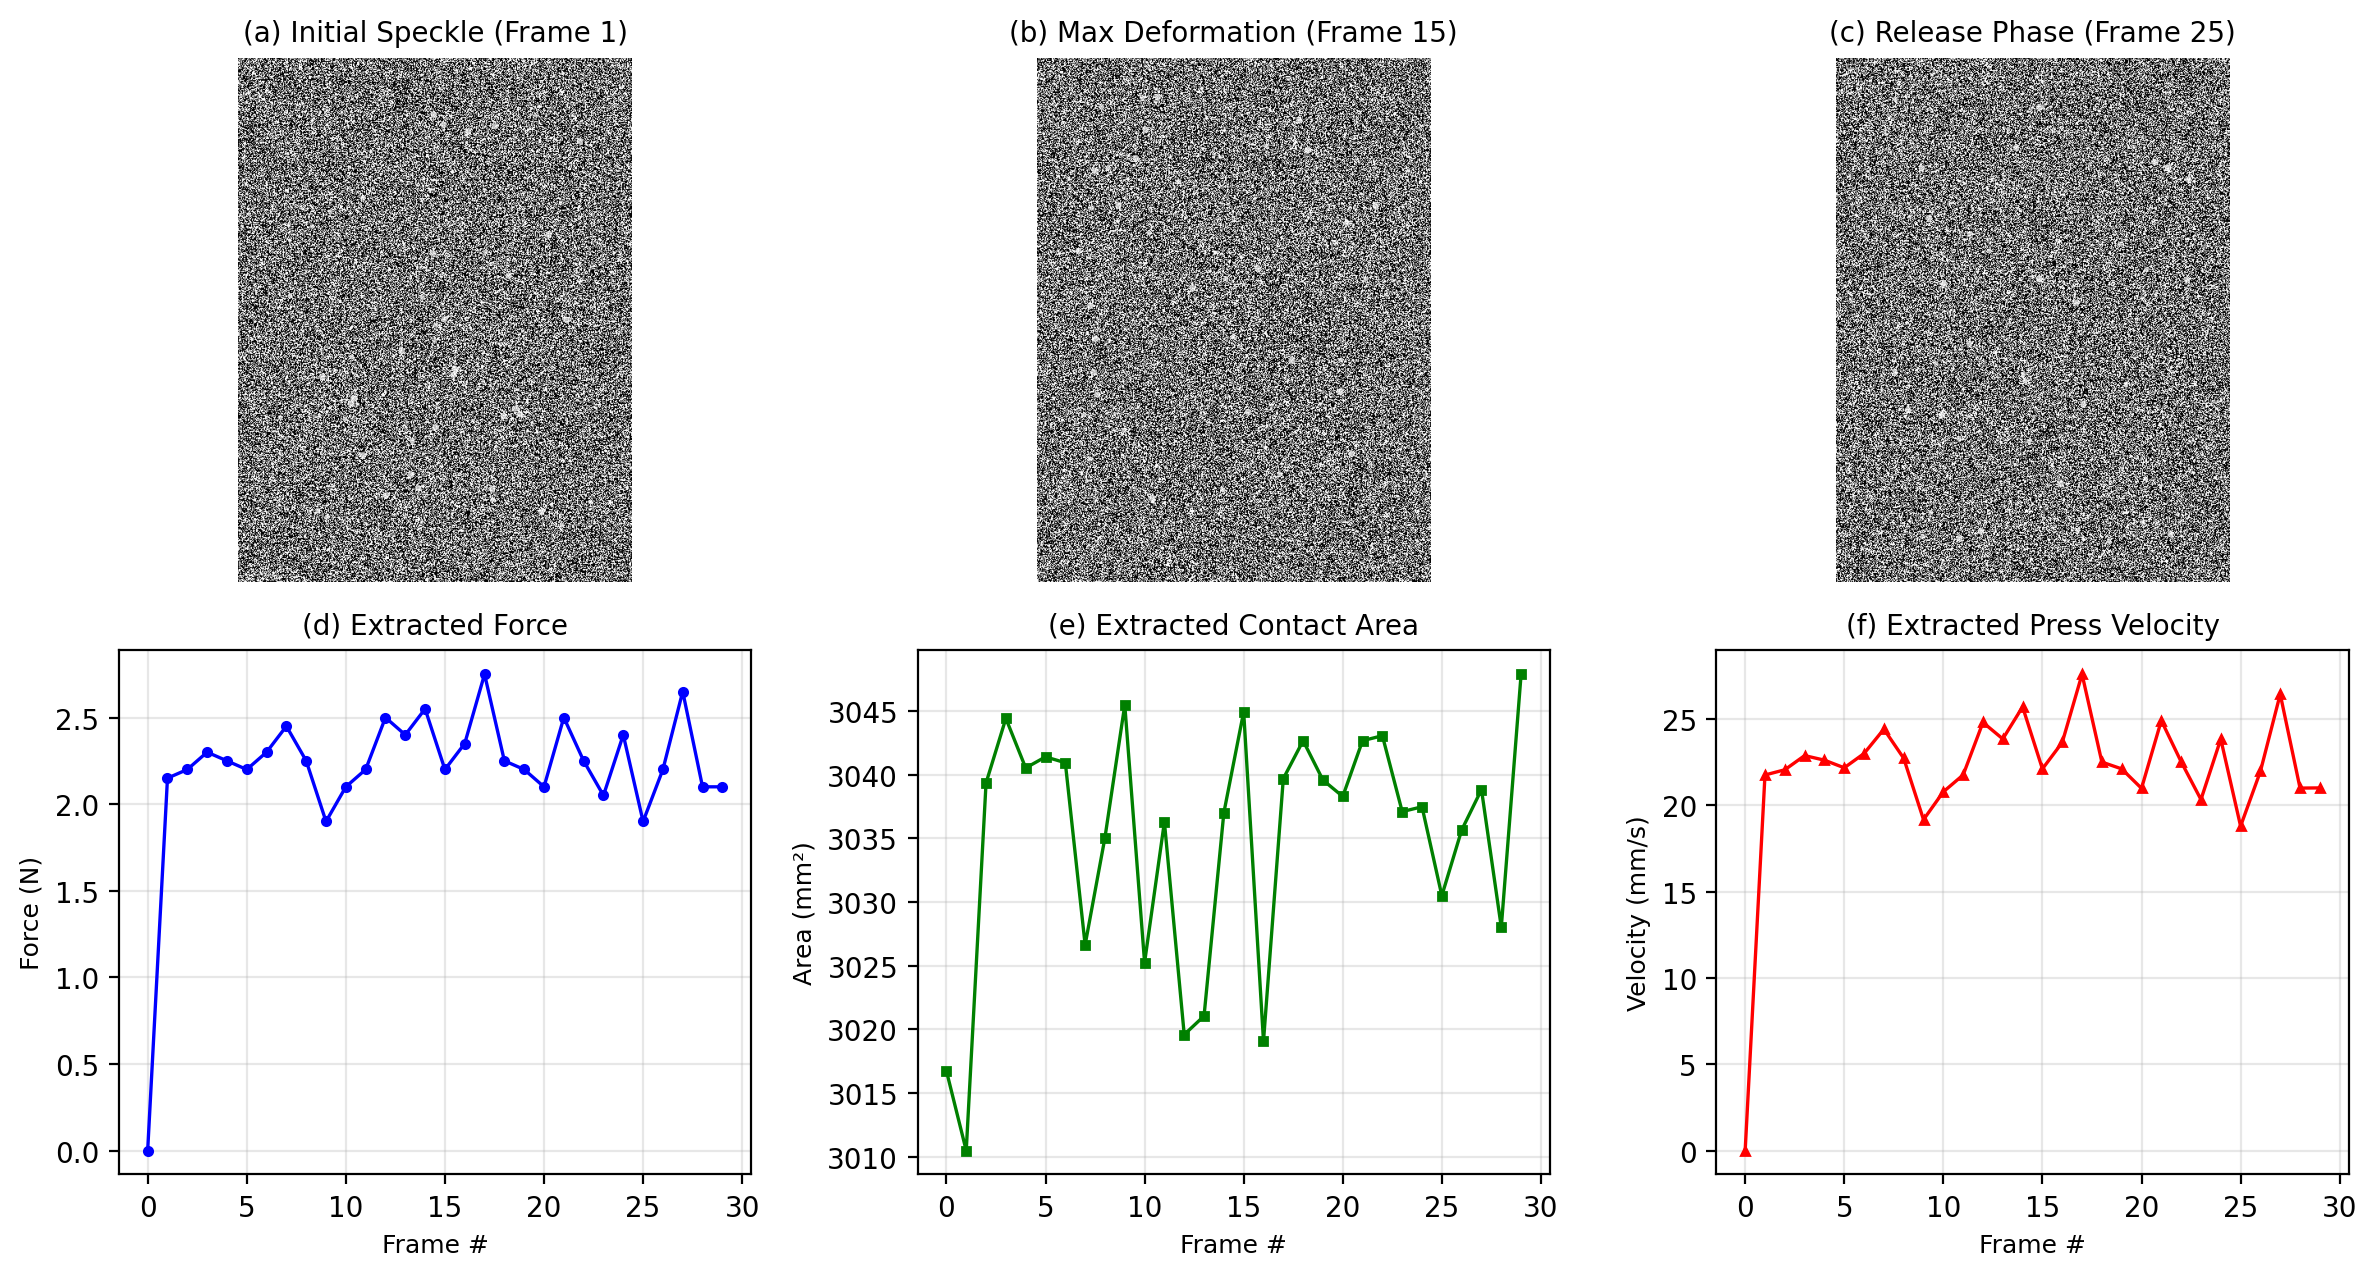
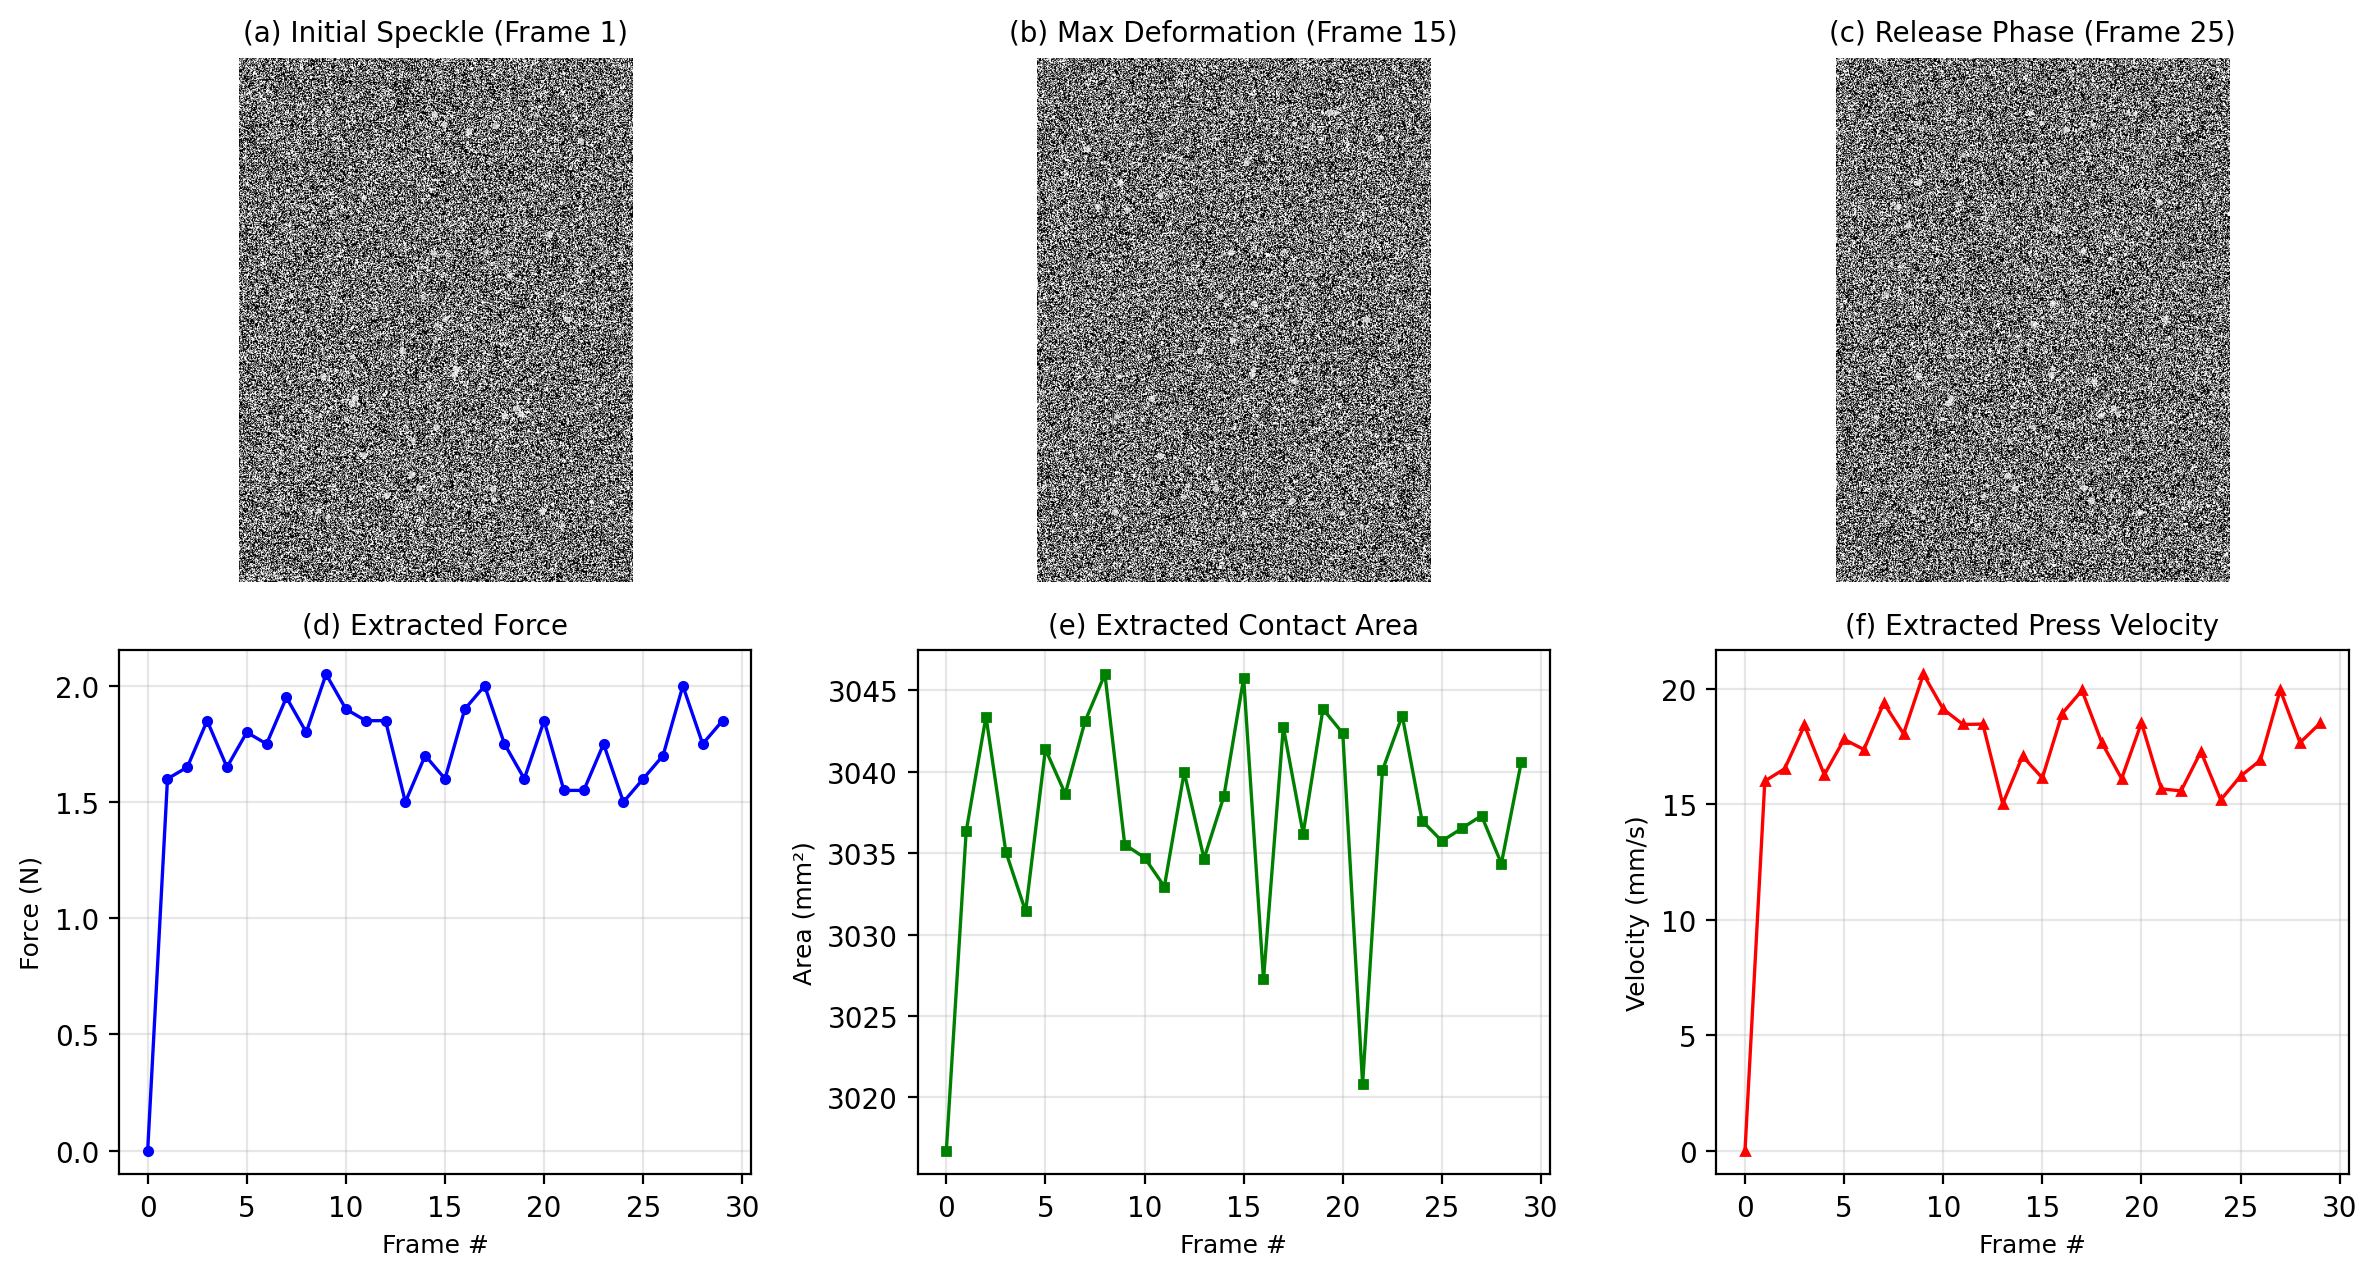
fix: repo cleanup - README structure, speckle seed bug, encoding

diff --git a/figures/generate_all_figures.py b/figures/generate_all_figures.py
@@ -25,7 +25,7 @@ FIGS_DIR = OUTPUT_DIR
 # Fig 0: System architecture diagram
 # ============================================================
 def draw_architecture_diagram():
-    """Draw three-layer closed-loop system architecture diagram"""
+    """Draw three-layer feedback system architecture diagram"""
     fig, ax = plt.subplots(1, 1, figsize=(12, 5))
     ax.set_xlim(0, 12)
     ax.set_ylim(0, 5)
@@ -81,7 +81,7 @@ def draw_architecture_diagram():
     draw_box(ax, 8.5, 1.8, 3.2, 2.8, colors['exec'],
              'Execution Layer', [
                  '5× Piezo Actuator Array',
-                 'CS40L25 Closed-loop Driver',
+                 'CS40L25 Feedback Driver',
                  'Phase-difference Localization',
                  '→ Real-time Force Feedback',
              ], alpha=0.12)
@@ -135,7 +135,7 @@ def draw_architecture_diagram():
     path = FIGS_DIR / 'fig0_architecture.png'
     fig.savefig(path, dpi=200, bbox_inches='tight')
     plt.close(fig)
-    print(f'  ✓ Architecture diagram saved: {path.name}')
+    print(f'  [OK] Architecture diagram saved: {path.name}')
     return path
 
 
@@ -229,12 +229,12 @@ def draw_force_haptic_mapping():
     path = FIGS_DIR / 'fig1_force_haptic_mapping.png'
     fig.savefig(path, dpi=200, bbox_inches='tight')
     plt.close(fig)
-    print(f'  \u2713 Force-haptic mapping saved: {path.name}')
+    print(f'  [OK] Force-haptic mapping saved: {path.name}')
 
     # Print performance metrics
     print(f'    Latency: {dt*1000:.2f} ms')
     print(f'    Force resolution: {force_resolution:.2f} N')
-    print(f'    Distinguishable effects: \u22658 types')
+    print(f'    Distinguishable effects: >= 8 types')
     return path
 
 
@@ -251,15 +251,15 @@ def draw_speckle_tracking():
     frames = []
     param_list = []
 
+    # Generate base speckle markers once (same set for all frames)
+    base_points = []
+    for _ in range(60):
+        x = np.random.randint(50, frame_size[1] - 50)
+        y = np.random.randint(50, frame_size[0] - 50)
+        base_points.append((x, y))
+
     for i in range(30):
         frame = np.zeros(frame_size, dtype=np.uint8)
-
-        # Base speckle markers (random positions + simulated press deformation offset)
-        base_points = []
-        for _ in range(60):
-            x = np.random.randint(50, frame_size[1] - 50)
-            y = np.random.randint(50, frame_size[0] - 50)
-            base_points.append((x, y))
 
         # Add deformation displacement (simulate press, larger displacement near center)
         cx, cy = frame_size[1] // 2, frame_size[0] // 2
@@ -342,7 +342,7 @@ def draw_speckle_tracking():
     path = FIGS_DIR / 'fig2_speckle_tracking.png'
     fig.savefig(path, dpi=200, bbox_inches='tight')
     plt.close(fig)
-    print(f'  ✓ Speckle tracking result saved: {path.name}')
+    print(f'  [OK] Speckle tracking result saved: {path.name}')
     return path
 
 

diff --git a/simulation/python/speckle_tracker.py b/simulation/python/speckle_tracker.py
@@ -109,20 +109,23 @@ def main():
 
     # Simulate synthetic image sequence
     frame_size = (640, 480)
+    np.random.seed(42)
+    # Pre-generate marker positions once
+    marker_positions = [(np.random.randint(0, frame_size[1]),
+                         np.random.randint(0, frame_size[0]))
+                        for _ in range(50)]
+
     for i in range(100):
         # Generate synthetic speckle image
         frame = np.zeros(frame_size, dtype=np.uint8)
-        # Simulate speckle markers
-        np.random.seed(42)
-        for _ in range(50):
-            x = np.random.randint(0, frame_size[1])
-            y = np.random.randint(0, frame_size[0])
+        # Draw pre-generated markers
+        for x, y in marker_positions:
             cv2.circle(frame, (x, y), 3, 255, -1)
 
         params = tracker.process_frame(frame)
         if i % 10 == 0:
             print(f"Frame {i:3d}: Force={params.force:.2f}N, "
-                  f"Area={params.area:.2f}mm², "
+                  f"Area={params.area:.2f}mm2, "
                   f"Velocity={params.velocity:.4f}mm/s, "
                   f"Position=({params.position[0]:.1f}, {params.position[1]:.1f})mm")
 

diff --git a/figures/README.md b/figures/README.md
@@ -1,23 +1,19 @@
 # vision-haptic-auto 图表说明
 
-本目录用于存放论文相关的图表资源。
+本目录存放论文所用图表。
 
-## 建议图表清单
+## 已生成图表
 
-### 1. 系统架构图 (`system-architecture/`)
-- 三层闭环架构框图：感知层 → 决策层 → 执行层
-- 标注各层关键技术
+| 文件名 | 内容 |
+|--------|------|
+| `fig0_architecture.png` | 系统三层反馈架构框图 |
+| `fig1_force_haptic_mapping.png` | 力度-触感映射仿真曲线（3子图） |
+| `fig2_speckle_tracking.png` | 散斑追踪仿真结果（6子图） |
 
-### 2. 算法流程图 (`algorithm-flow/`)
-- 感知层信号处理流程：图像采集 → 去噪 → 标记点检测 → 光流追踪 → 参数输出
-- 决策层映射逻辑：力度输入 → 阶段判断 → 触觉指令生成
+## 批量生图
 
-### 3. 性能指标表 (`performance-table/`)
-- 见论文第四章的性能指标对照表
+运行本目录下的 `generate_all_figures.py` 可一键重新生成全部图表。
 
----
-
-## 制作工具建议
-- 系统架构图：draw.io / Figma / PowerPoint
-- 算法流程图：draw.io / Mermaid
+## 制作工具
+- 架构图：Matplotlib
 - 数据图表：MATLAB / Python Matplotlib

diff --git a/README.md b/README.md
@@ -10,13 +10,13 @@
 
 本项目为《智能仪器设计与制造》课程大作业，选题类型为**创新设计类**。
 
-针对智能汽车全面触屏化背景下驾驶员因缺乏触觉反馈而被迫依赖视觉确认、导致驾驶分心与安全隐患的问题，设计一套基于视触觉传感的智能汽车触控屏力觉反馈系统。
+针对智能汽车全面触屏化背景下驾驶员因缺乏触觉反馈而被迫依赖视觉确认、导致驾驶分心与安全隐患的问题，设计一套基于视触觉感知的智能汽车触控屏力觉反馈系统。
 
-### 核心创新
+### 设计创新
 
 1. **场景创新**：将视触觉传感技术从工业检测迁移至车载交互场景
 2. **功能创新**：感知维度从"位置"拓展为"力度+面积+速度+位置"四维信息
-3. **系统创新**：构建"感知层 → 决策层 → 执行层"完整闭环架构
+3. **系统创新**：构建"感知层 → 决策层 → 执行层"完整反馈架构
 
 ### 系统架构
 
@@ -25,7 +25,7 @@
    ↓
 决策层：力度-触感映射算法 + 场景自适应策略
    ↓
-执行层：压电执行器阵列 + 闭环驱动 → 差异化力觉反馈
+执行层：压电执行器阵列 + 反馈控制驱动 → 差异化力觉反馈
 ```
 
 ---
@@ -37,14 +37,17 @@ vision-haptic-auto/
 ├── README.md                # 项目说明（本文件）
 ├── .gitignore               # Git 忽略规则
 ├── paper/                   # 论文文档
-│   └── main.tex             # LaTeX / Markdown 主文档
+│   └── main.md              # Markdown 主文档
 ├── figures/                 # 图表资源
-│   ├── system-architecture/ # 系统架构图
-│   ├── algorithm-flow/      # 算法流程图
-│   └── performance-table/   # 性能指标表
+│   ├── fig0_architecture.png    # 系统架构图
+│   ├── fig1_force_haptic_mapping.png  # 力度-触感映射图
+│   ├── fig2_speckle_tracking.png      # 散斑追踪效果图
+│   └── generate_all_figures.py  # 批量生图脚本
 ├── simulation/              # 仿真代码
 │   ├── matlab/              # MATLAB 仿真
+│   │   └── force_haptic_mapping.m
 │   └── python/              # Python 仿真
+│       └── speckle_tracker.py
 └── references/              # 参考文献
     └── bibliography.bib     # BibTeX 参考文献
 ```
@@ -53,7 +56,7 @@ vision-haptic-auto/
 
 ## 四个为什么
 
-| 章节 | 核心问题 | 字数 |
+| 章节 | 关键问题 | 字数 |
 |------|----------|------|
 | 一、引言 | **为什么做** — 产业背景、痛点分析、现有不足 | ~500字 |
 | 二、技术现状 | **现有水平** — 电容屏/LRA/压电/视触觉四类技术现状 | ~600字 |